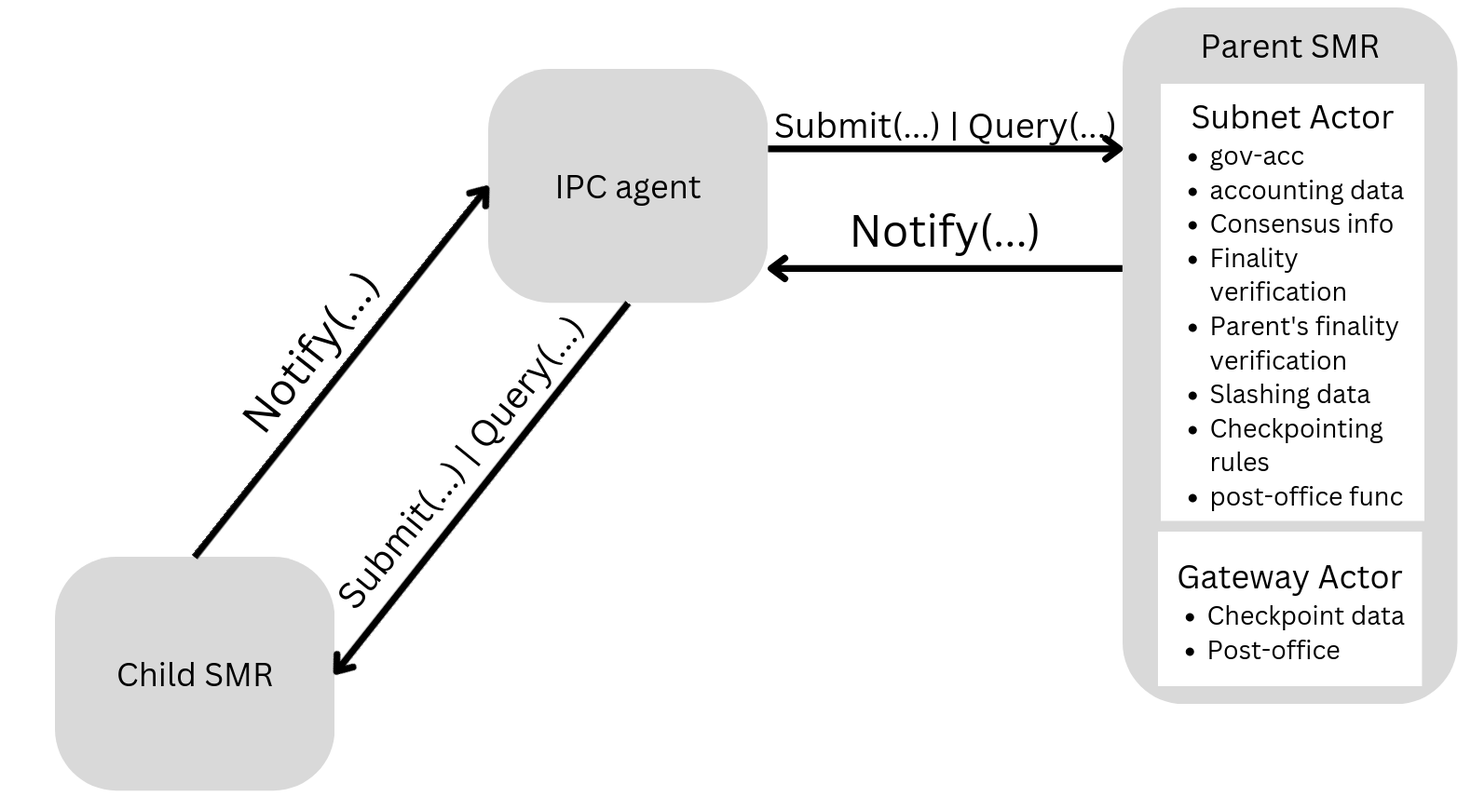
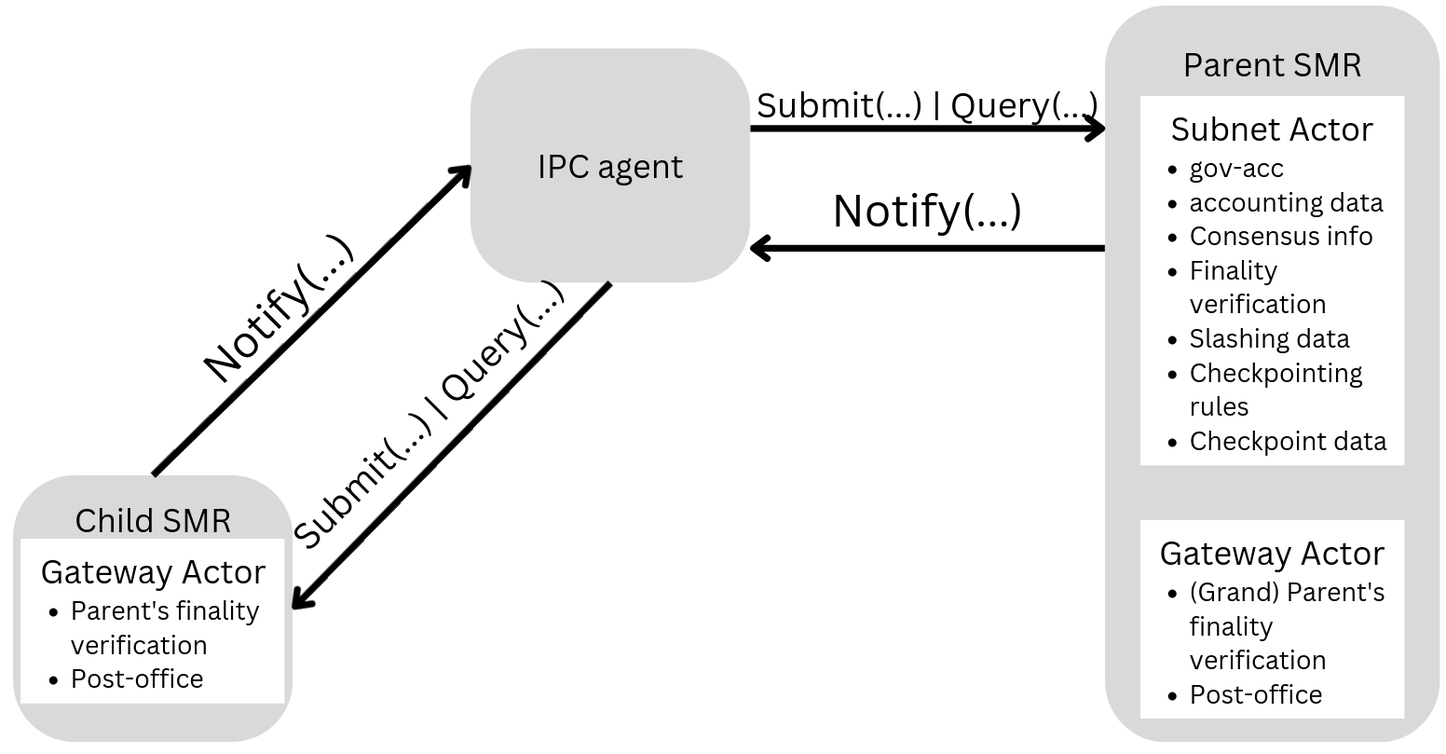
Updates from Overleaf

diff --git a/sections/components.tex b/sections/components.tex
@@ -6,33 +6,98 @@
  \section{Components and their Interfaces}
  \label{sec:components}
 
-In \ipc, whole subnets need to interact.
-I.e., the replicated state of one subnet must react to (changes in) the replicated state of another subnet.
-As the replicated state of every subnet is distributed among its replicas and evolves independently of other subnets,
-we must establish a mechanism for interactions between the states of subnets.
-In particular, we must explicitly link the two replicated states of two subnets.
-More precisely, for any interaction between two subnets ($A$ and $B$), define block heights $h_A$ and $h_B$,
-such that $A$'s replicated state at height $h_A$ considers $B$'s replicated state to have evolved exactly until $h_B$.
+We now focus on the interaction between two subnets in a parent-child relation.
+To enable the interaction between them, which comprises running the subnets, observing each other's replicated state,
+constructing \pofsFull, submitting the necessary transactions, and modifying the replicated state accordingly,
+the following components need to work together.\\
 
-To this end, we define a \emph{\pofFull (\pof)} to be data that proves that an SMR system definitively reached a certain replicated state.
-Regardless of the SMR system's ordering protocol's approach to finality (e.g., immediate finality for classic BFT protocols, or probabilistic finality in PoW-based systems),
-a \pof convinces the the proof's verifier that the replicated state it refers to will not be rolled back.
-We denote by \emph{\pof(tx)} the proof that an SMR system reached a state in which transaction \emph{tx} already has been applied.
-For example, for a BFT-based SMR system, a quorum of signatures produced by its replicas can constitute a \pof.
+\begin{itemize}
+    \item Processes:
+        \begin{enumerate}
+            \item \textbf{Parent replica:} The process that runs the parent subnet. It has a copy of the parent's replicated state, participates in receiving and ordering transactions and updates the replicated state (including the \sa \dapp) accordingly.
+            \item \textbf{Child replica:} The process that runs the child subnet. It has a copy of the child's replicated state, participates in receiving and ordering transactions and updates the replicated state (including the \gw \dapp) accordingly.
+            \item \textbf{\ipc agent:} The process that mediates the interactions between the two subnets.
+            It has access to the replicated states of both the parent and the child
+            (e.g., by sharing a trust domain with a child and a parent replica, or by securely downloading the replicated state from other replicas...)
+            and acts as an SMR client (i.e. submits transactions) to both subnets.
+            Depending on the implementation, it might also be responsible for constructing \pofsFull (which might involve communication with other processes).
+        \end{enumerate}
+    \item Smart contracts:
+        \begin{enumerate}
+            \item \textbf{Subnet actor (\sa):} The smart contract in the parent subnet's replicated state
+            that stores all information about the child subnet that the parent subnet needs.
+            The \ipc agent's transactions submitted to the parent subnet mostly invoke the \sa.
+            The state of the \sa includes:
+            \begin{itemize}
+            \item \emph{Accounting data.}
+            This data describes the money that has been deposited to the child.
+            It is considered locked inside the SA until it is withdrawn from the child.
+            This data might consist of just a single value representing the sum of all such coins ("custodial" approach),
+            but might also contain finer-grained information about balances for each account in the child subnet ("non-custodial" approach).
+            %We continue with the non-custodial approach as the other can be viewed as a specific limitation of it.
+            \item \emph{Governance account.}
+            This account facilitates the economic design of a subnet.
+            It can be used for collecting fees or making payments to accounts of participants that perform operations on behalf of the child subnet.
+            For example, when an IPC agent submits (and thus pays for) transaction linking a child's checkpoint to the parent's replicated state,
+            the IPC actor logic might reimburse the associated account.
+            \item \emph{Ordering protocol data.}
+            This is the data (or a pointer to it) that is needed to run the ordering protocol of the child subnet.
+            It is protocol-specific, but is generally expected to contain information such as
+            \begin{itemize}
+                \item The ordering protocol used by the subnet.
+                \item Subnet configuration such as the validator set, voting rights, collateral deposits, etc.
+                \item Subnet governance mechanisms, e.g., transaction fees, block rewards, conditions for participation, ...
+            \end{itemize}
+            \item \emph{Child state finality verification.} Logic to verify (based on only the parent's replicated state)
+            that a given child's replicated state/\tx is final%
+\footnote{Finality is an elusive concept that we do not take upon ourselves to define here. For simplicity, we assume finality in a Boolean manner, either \tx is final or it is not. This could easily be generalized to parameterized finality of the sort ``the probability of \tx persisting is at least~$x$."}
+            or that a particular \tx has been definitively included in the child's state.
+            We expect that this logic will verify a \pof submitted (through transactions) by one or more IPC agents to the \sa.
+            % For this, we will use the function \sa.\verifyGfinal{\tx}{\prf} which excepts as arguments a transaction (or state) and a \prf, and outputs True if \tx is considered globally final in the child subnet and False otherwise. This function must only depend on its inputs and the internal state of~\sa. For example, \prf is a threshold signature that can be verified against the set of validators in~\sa.
+          
+        \end{itemize}
+        The above suffices for an \ipcFull system with a minimal inter-subnet functionality of users' asset transfer, and a general \smr per subnet. We continue with further state required for additional functionality.
+        \begin{itemize}
+            \item \emph{Slashing.}
+            \begin{itemize}
+                \item List of slashable misbehaviors and a proving methodology. That is, for each slashable misbehavior there is a definition of what constitutes a valid proof of misbehavior (\pom).
+                \item Penalties for misbehavior and rewards for reporting, as well as the logic performing the necessary actions within the parent subnet.
+            \end{itemize}
+            \item \emph{Checkpointing.}
+            \begin{itemize}
+                \item Child subnet's checkpoint data or a pointer to it.
+                \item Checkpoint validity rules (and logic enforcing them).
+                E.g., "Checkpoints must be at least every~$\Delta$ subnet blocks apart", or "A checkpoint must contain a reference to (hash of) a previous checkpoint.", etc.
+                % the checkpoint's $L_2$ distance from the previous is larger than~$L$.
+                %\item Fee payments for checkpoints.
+            \end{itemize}
+        \end{itemize}
+        \item \textbf{IPC coordinator/gateway actor (\gw):} a smart contract that exists in every subnet in the \ipc hierarchy and contains all information and logic the subnet itself needs to hold in order to be part of \ipc. The state of the \gw includes:
+        \begin{itemize}
+            \item \emph{Parent state finality verification.} Analogously to the \sa's child state finality verification logic,
+            this is the logic to verify that a state/\tx is final in the parent subnet,
+            using a \pof submitted as transaction(s) to the child subnet by the IPC agent(s).
+            % For this, we will use the function \gw.\verifyPfinal{\tx}{\prf} which excepts as arguments a transaction (or state) and a \prf, and outputs True if \tx is considered globally final in the parent subnet and False otherwise. This function must only depend on its inputs (and perhaps some internal state of~\gw).
+            \item \emph{Inter-subnet transactions service} (denoted \postoffice).
+            The \gw contains a registry of subnets and a functionality that can be used to transfer data from one subnet to another. 
+            The \postoffice specifies the methods and the state locations that are used for these services.
+            This functionality is required for the communication of two smart contracts across subnets%
+            % In particular, consider the following case involving a smart contract.%
+\footnote{When inter-subnet data transfer happens between users (Externally Owned Accounts --- \eoa --- in Ethereum's jargon), they can actively participate in the propagation by submitting transactions to the parent and child subnets. Smart contracts, on the other hand, do not have that power and, therefore, cannot communicate inter-subnets as efficiently as users (\eoa) and must do so through IPC agents.},
+            i.e., a smart contract emiting an event that contains data to be processed by the replicated state machine logic of a different subnet.
+        \end{itemize}
+    \end{enumerate}
+\end{itemize}
 
-
-
-We separate the software needed to run \ipc into three processes and two \dapps:
-
-\matej{\todo{Express those components and their interfaces also in pseudocode.}}
-\begin{enumerate}
-    \item \textbf{\ipc agent:} The software that is in charge of the interactions between the two blockchains. This includes, for example, observers for the parent and child subnets. (Note that it is a process and not a smart contract). The \ipc agent is a piece of software that mediates the interactions between the child and parent \smr software modules.    
-    \item \textbf{Parent \smr replica:} The software that runs the parent blockchain. Note that this module also entails the interaction with the \ipc smart contract~\sa, which is maintained at the parent subnet. Any update that the parent process performs on \sa is notified to the \ipc agent.
-    \item \textbf{Child \smr replica:} The software that runs the child blockchain. Note that some of the rules the child blockchain must satisfy are listed in~\sa. Any output operation (withdraw, checkpoint) is notified to the parent process through the \ipc agent. 
-%    \item \textbf{IPC smart contract / subnet actor (\sa):} The smart contract implementation that is running on the parent blockchain. It is invoked only through transactions that are included in the parent blockchain.
-    \item \textbf{IPC subnet actor (\sa):} The smart contract implementation that is running on the parent blockchain. It is invoked only through transactions that are included in the parent blockchain.
-    \item \textbf{IPC coordinator/gateway actor (\gw):} a smart contract that exists in every non-leaf subnet in the \ipc hierarchy and contains methods facilitating inter-subnet operations.	
-\end{enumerate}
+% OLD VERSION:
+% \begin{enumerate}
+%     \item \textbf{\ipc agent:} The software that is in charge of the interactions between the two blockchains. This includes, for example, observers for the parent and child subnets. (Note that it is a process and not a smart contract). The \ipc agent is a piece of software that mediates the interactions between the child and parent \smr software modules.    
+%     \item \textbf{Parent \smr replica:} The software that runs the parent blockchain. Note that this module also entails the interaction with the \ipc smart contract~\sa, which is maintained at the parent subnet. Any update that the parent process performs on \sa is notified to the \ipc agent.
+%     \item \textbf{Child \smr replica:} The software that runs the child blockchain. Note that some of the rules the child blockchain must satisfy are listed in~\sa. Any output operation (withdraw, checkpoint) is notified to the parent process through the \ipc agent. 
+% %    \item \textbf{IPC smart contract / subnet actor (\sa):} The smart contract implementation that is running on the parent blockchain. It is invoked only through transactions that are included in the parent blockchain.
+%     \item \textbf{IPC subnet actor (\sa):} The smart contract implementation that is running on the parent blockchain. It is invoked only through transactions that are included in the parent blockchain.
+%     \item \textbf{IPC coordinator/gateway actor (\gw):} a smart contract that exists in every non-leaf subnet in the \ipc hierarchy and contains methods facilitating inter-subnet operations.	
+% \end{enumerate}
 
 
 We now define minimal interfaces between the different modules that enable the correct operation of an \ipcFull system.
@@ -48,73 +113,11 @@ We require four interfaces: (i) \ipc agent --- parent \smr, (ii) \ipc agent --- 
 
 The interface between an \smr and~\sa or~\gw is based on the execution engine of that \smr and the functionality desired by~\sa. The specifics of the execution engine's system calls depend on implementation. Whenever such a call is not clear from context we provide a description of what it entails. \\
 
+\Cref{fig:interfaces} illustrates the components and their interfaces.\\
 
-\T{The state of \sa includes representations of:}
-% accounting
-% Consensus functionality
-% functionalities: proofOfFinality
-\begin{itemize}
-    \item Accounting data. This can vary from a single account representing all the parent's coins in the child to an account balance for each user in the child subnet (custodial vs non-custodial accounting). We continue with the non-custodial approach as the other can be viewed as a specific limitation of it.
-    %
-    \item Governance account (denoted \gov). This account facilitates the economic design of a subnet. It can be used for governing operations of the subnet. For example, collecting fees and making payments (to validators, for checkpoint reimbursement etc.) 
-    %
-    \item Consensus information. The data (or a pointer to it) that is needed to run the ordering of the subnet.
-    \begin{itemize}
-        \item Consensus protocol.
-        \item Subnet configuration such as the validator set, voting rights, collateral deposits, etc.
-        \item Payments methods for participation. E.g., transaction fee mechanism, block rewards.
-    \end{itemize}
-    %
-    \item Finality verification. A method to Verify that a state/\tx is final%
-    \footnote{Finality is an elusive concept that we do not take upon ourselves to define here. For simplicity, we assume finality in a Boolean manner, either \tx is final or it is not. This could easily be generalized to parameterized finality of the sort ``the probability of \tx persisting is at least~$x$."}
-    in the child subnet. For this, we will use the function \sa.\verifyGfinal{\tx}{\prf} which excepts as arguments a transaction (or state) and a \prf, and outputs True if \tx is considered globally final in the child subnet and False otherwise. This function must only depend on its inputs and the internal state of~\sa. For example, \prf is a threshold signature that can be verified against the set of validators in~\sa.
-  \item Parent's finality verification. A method to verify that a state/\tx is final in the parent subnet. For this, we will use the function \gw.\verifyPfinal{\tx}{\prf} which excepts as arguments a transaction (or state) and a \prf, and outputs True if \tx is considered globally final in the parent subnet and False otherwise. This function must only depend on its inputs (and perhaps some internal state of~\gw). \arp{subnet specific, not necessarily the same method for all child subnets. Lives at the SA (needed for deposits but deposits should not depend on \gw)}
-\end{itemize}
-%
-The above suffices for an \ipcFull system with a minimal inter-subnet functionality of users' asset-transfer, and a general \smr per subnet. We continue with the additional state required for enhanced functionalities.
-%
-\begin{itemize}
-    \item Slashing functionality.
-    \begin{itemize}
-        \item List of slashable misbehaviors and a proving methodology. That is, for each slashable misbehavior there is a definition of what constitutes a valid proof of misbehavior (\pom).
-        \item Incentives design, i.e., specified penalties for misbehavior and rewards for reporting.
-    \end{itemize}
-    %
-    \item Checkpointing rules.
-    \begin{itemize}
-        \item When checkpoints are valid. E.g., every~$\Delta$ subnet-blocks from the previous checkpoint, or the checkpoint's $L_2$ distance from the previous is larger than~$L$.
-        \item Fee payments for checkpoints.
-    \end{itemize}
-    %
-%    \item Inter-subnet transactions service (denoted \postoffice). 
-%    \sa contains functionality that can be used to transfer data from one subnet to another. In particular, consider the following case involving a smart contract.%
-%    \footnote{When inter-subnet data transfer happens between users (Externally Owned Accounts --- \eoa --- in Ethereum's jargon), they can actively participate in the propagation via the \ipc agent that communicates with both the parent and child subnets. Smart contracts, on the other hand, do not have that power and, therefore, cannot communicate inter-subnets as efficiently as users (\eoa).}
-%    Smart contract $\textit{SmCt}$ emits an event~$e$ that contains $\textit{data}$ which is desired to reach the destination~\textit{dest} in a different subnet.
-%    The \postoffice specifies the methods and the state locations that are used by this service.
-\end{itemize}
-Recall that \sa lives at the parent \smr. However, some of the objects that are represented in \sa are modified in the child subnet (e.g., accounting data). Therefore, such objects are likely to have a representation in the child \smr as well.
-Moreover, the representation in the child \smr may differ from those in~\sa. This is due to \sa being less frequently updated (it is part of the parent \smr state). The representations are periodically synchronized, e.g., at a checkpoint event. \Cref{fig:interfaces} illustrates the components and their interfaces.\\
-
-
-% We remark that all of the above are likely to have representations in the child \smr as well. Moreover, the representation in the child \smr may differ from those in~\sa. This is due to \sa being less frequently updated (it is part of the parent \smr state). The representations are periodically synchronized, e.g., at a checkpoint event. \Cref{fig:interfaces} illustrates the components and their interfaces.
 \begin{figure}[h]
      \centering
      \includegraphics[width=0.75\textwidth]{compsintfs}
      \caption{The basic components and their interfaces.}
      \label{fig:interfaces}
  \end{figure}
-
-
-\T{The state of \gw includes:}
-\begin{itemize}
-    \item Checkpoint data. The parent stores at the \gw each of the checkpoints from each direct child of it.
-    \item Inter-subnet transactions service (denoted \postoffice). 
-    \gw contains a registry of subnets and a functionality that can be used to transfer data from one subnet to another. 
-    The \postoffice specifies the methods and the state locations that are used for these services.
-    In particular, consider the following case involving a smart contract.%
-    \footnote{When inter-subnet data transfer happens between users (Externally Owned Accounts --- \eoa --- in Ethereum's jargon), they can actively participate in the propagation via the \ipc agent that communicates with both the parent and child subnets. Smart contracts, on the other hand, do not have that power and, therefore, cannot communicate inter-subnets as efficiently as users (\eoa).}
-    Smart contract $\textit{SmCt}$ emits an event~$e$ that contains $\textit{data}$ which is desired to reach the destination~\textit{dest} in a different subnet.
-\end{itemize}
- 
- 
- 

diff --git a/sections/model.tex b/sections/model.tex
@@ -47,7 +47,7 @@ If the implementation of some component in our design requires additional assump
 % This depends on the final implementation of its components.
 
 We use the term \emph{participant} to describe an entity participating in the system that controls one or more processes.
-All processes controlled by one participant trust each other, i.e., can assume each other's correctness.
+All processes controlled by one participant are assumed to be in the same trust domain -- they trust each other, i.e., assume each other's correctness.
 For example, a participant in the child subnet will probably run multiple processes:
 one for participating in the child subnet's protocol (child replica),
 one for participating in the parent subnet (parent replica),
@@ -59,15 +59,17 @@ However, messages received from another participant's replica or \ipc agent are 
 The synchrony assumptions may vary between different components of \ipc.
 We thus state those assumptions whenever necessary, when describing concrete implementations of \ipc components.
 
-\subsection{State machine replication and \dapps}
+\subsection{State machine replication (SMR) and \dapps}
 \label{sec:smr}
 
+\paragraph{SMR and replicated state.}
 A \emph{state machine replication (SMR) system}%
 \footnote{In this document, we use the terms ``SMR system" and ``blockchain" interchangeably.}
 is a system consisting of processes called \emph{replicas}, each of which locally stores a copy of (or at least has access to) \emph{replicated state}
 that it updates over time by applying a sequence of \emph{transactions} to it.
 Without specifying the details of it, we assume that any process can \emph{submit} a transaction to an SMR system (we call such a process an \emph{SMR client})
 and that this transaction will eventually be ordered and applied to the replicated state.
+We call an SMR system that is part of \ipc a \emph{subnet}.
 
 An SMR system guarantees to each correct replica that, after applying $n$ transactions to its local copy of the replicated state,
 the latter will be identical to any other correct replica’s copy of the replicated state after applying $n$ transactions.
@@ -82,6 +84,7 @@ useful for reasoning about transitions from one replicated state to another,
 happening at individual replicas by applying transactions (at different real times).
 When referring to a “current” replicated state, we mean the state resulting from the application of a certain number of transactions to the initial state.
 
+\paragraph{Smart contracts.}
 The replicated state of an SMR system can be logically subdivided into multiple \emph{\dapps} (a.k.a. actors in Filecoin).
 A \dapp is a portion of the replicated state with well-defined semantics.
 It defines the logic (e.g., expressed in a programming language, like Solidity in Ethereum)
@@ -117,12 +120,25 @@ The former usually represent OS-level processes running on some physical machine
 the latter are an abstraction over the replicated state of an SMR system and their logic is being executed by all its replicas.
 While a process can submit a transaction to an SMR system, a \dapp cannot.
 
-In this document, we mostly focus on the interaction between a single parent SMR system (consisting of parent processes) and a single child SMR system (consisting of child processes), as this is the most important building block of \ipc.
-In the next section, we describe the components involved in this interaction and their interfaces.
+\paragraph{Interaction between subnets.}
+In \ipc, whole subnets need to interact, i.e., the replicated state of one subnet must react to (changes in) the replicated state of another subnet.
+As the replicated state of every subnet is distributed among its replicas and evolves independently of other subnets,
+we must establish a mechanism for interactions between the states of subnets.
+In particular, we must explicitly link the two replicated states of two subnets.
+More precisely, for any interaction between two subnets ($A$ and $B$), define block heights $h_A$ and $h_B$,
+such that $A$'s replicated state at height $h_A$ considers $B$'s replicated state to have evolved exactly until $h_B$.
+
+\paragraph{\PofsFull.}To this end, we define a \emph{\pofFull (\pof)} to be data that proves that an SMR system definitively reached a certain replicated state.
+Regardless of the SMR system's ordering protocol's approach to finality (e.g., immediate finality for classic BFT protocols, or probabilistic finality in PoW-based systems),
+a \pof convinces the the proof's verifier that the replicated state the \pof refers to will not be rolled back.
+For example, for a BFT-based SMR system, a quorum of signatures produced by its replicas can constitute a \pof.
+We denote by \emph{\pof(tx)} the proof that an SMR system reached a state in which transaction \emph{tx} already has been applied.
+
+
 
 \subsection{Money}
 
-For each pair of subnets in a parent-child relationship, we assume that there exists a notion of \emph{money} common to both subnets.%
+For each pair of subnets in a parent-child relationship, we assume that there exists a notion of \emph{money} (measured in \emph{coins}) common to both subnets.%
 \footnote{One can easily generalize the design to decouple the use of money between a parent and its child, but we stick with using the same kind of money in both subnets for simplicity.}
 Each end user of the SMR system is assumed to have a personal wallet and a corresponding account in some subnet.
 

diff --git a/sections/impl-tmpl.tex b/sections/impl-tmpl.tex
@@ -8,3 +8,7 @@
  \section{An Instance of IPC}
  \label{sec:impl-tmpl}
  Here we describe the particular choices implemented by the Consensus Lab team.
+
+The current implementation considers Filecoin as the root subnet\guy{I wrote it but I'm not sure this is the case...}, and Trantor as child subnets. For our interest it is important to note that Trantor is a BFT consensus protocol with immediate finality, and Filecoin is a longest chain style protocol with probabilistic finality. Therefore, as a \prf that a child subnet finalized a state we use a multisig on that state, the multisig must correspond to more than 2/3 of the child's validators voting rights as reflected by \sa at the time.%
+\footnote{A next step in the implementation road-map is to offer a threshold signature mechanism instead of using a multisig. For now, multisigs serve the purpose of an MVP implementation.}
+To verify the finality of a state at the parent, we use the fact that a participant has view in to a version of the parent blockchain (through its local parent replica process). In this case, \prf contains the block height~$h$ (and pointer to that block) at the parent subnet. A child replica then asserts with its parent that the state is final by checking with its local version of the parent blockchain at height~$h$. If the the local version at the parent replica did not reach height~$h$ yet, the child replica considers the state non-final/non-valid currently and checks again when the parent reaches height~$h$.

diff --git a/mystyle.tex b/mystyle.tex
@@ -73,4 +73,6 @@
 \newcommand{\dapps}{smart contracts\xspace}
 \newcommand\T[1]{\noindent\textbf{#1}}
 \newcommand{\pofFull}{proof of finality\xspace}
+\newcommand{\pofsFull}{proofs of finality\xspace}
+\newcommand{\PofsFull}{Proofs of finality\xspace}
 \newcommand{\pof}{PoF\xspace}
